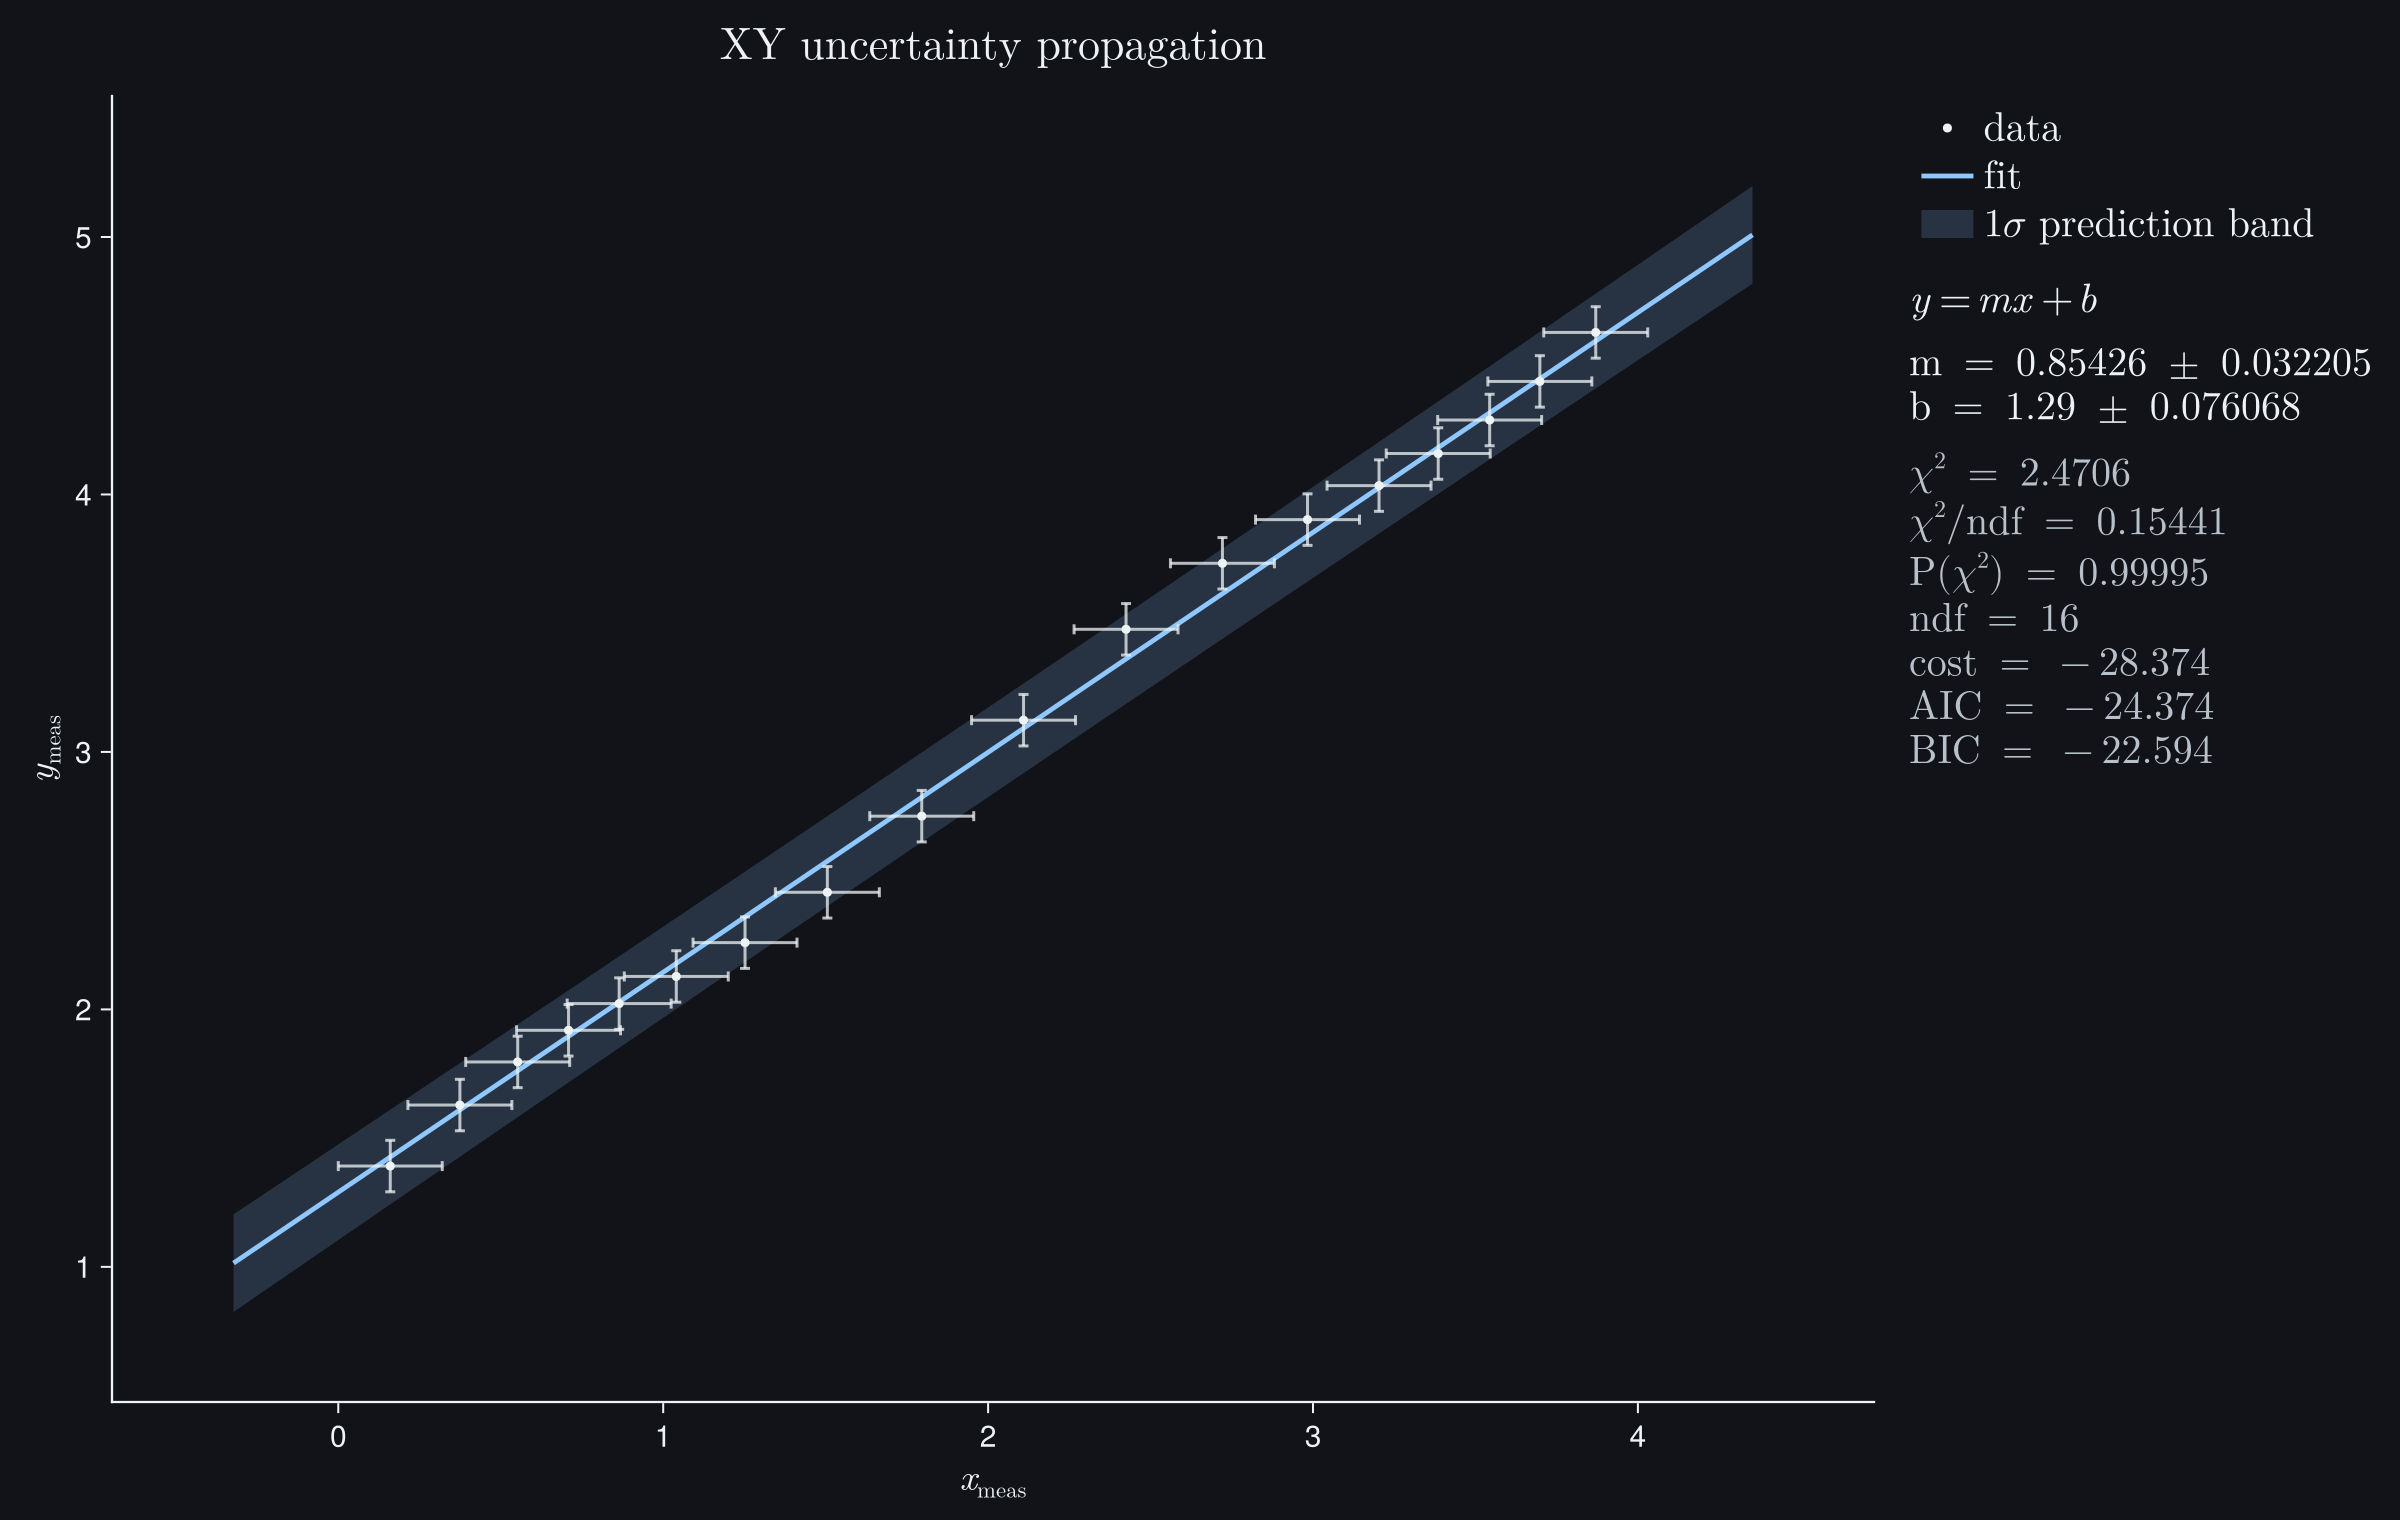
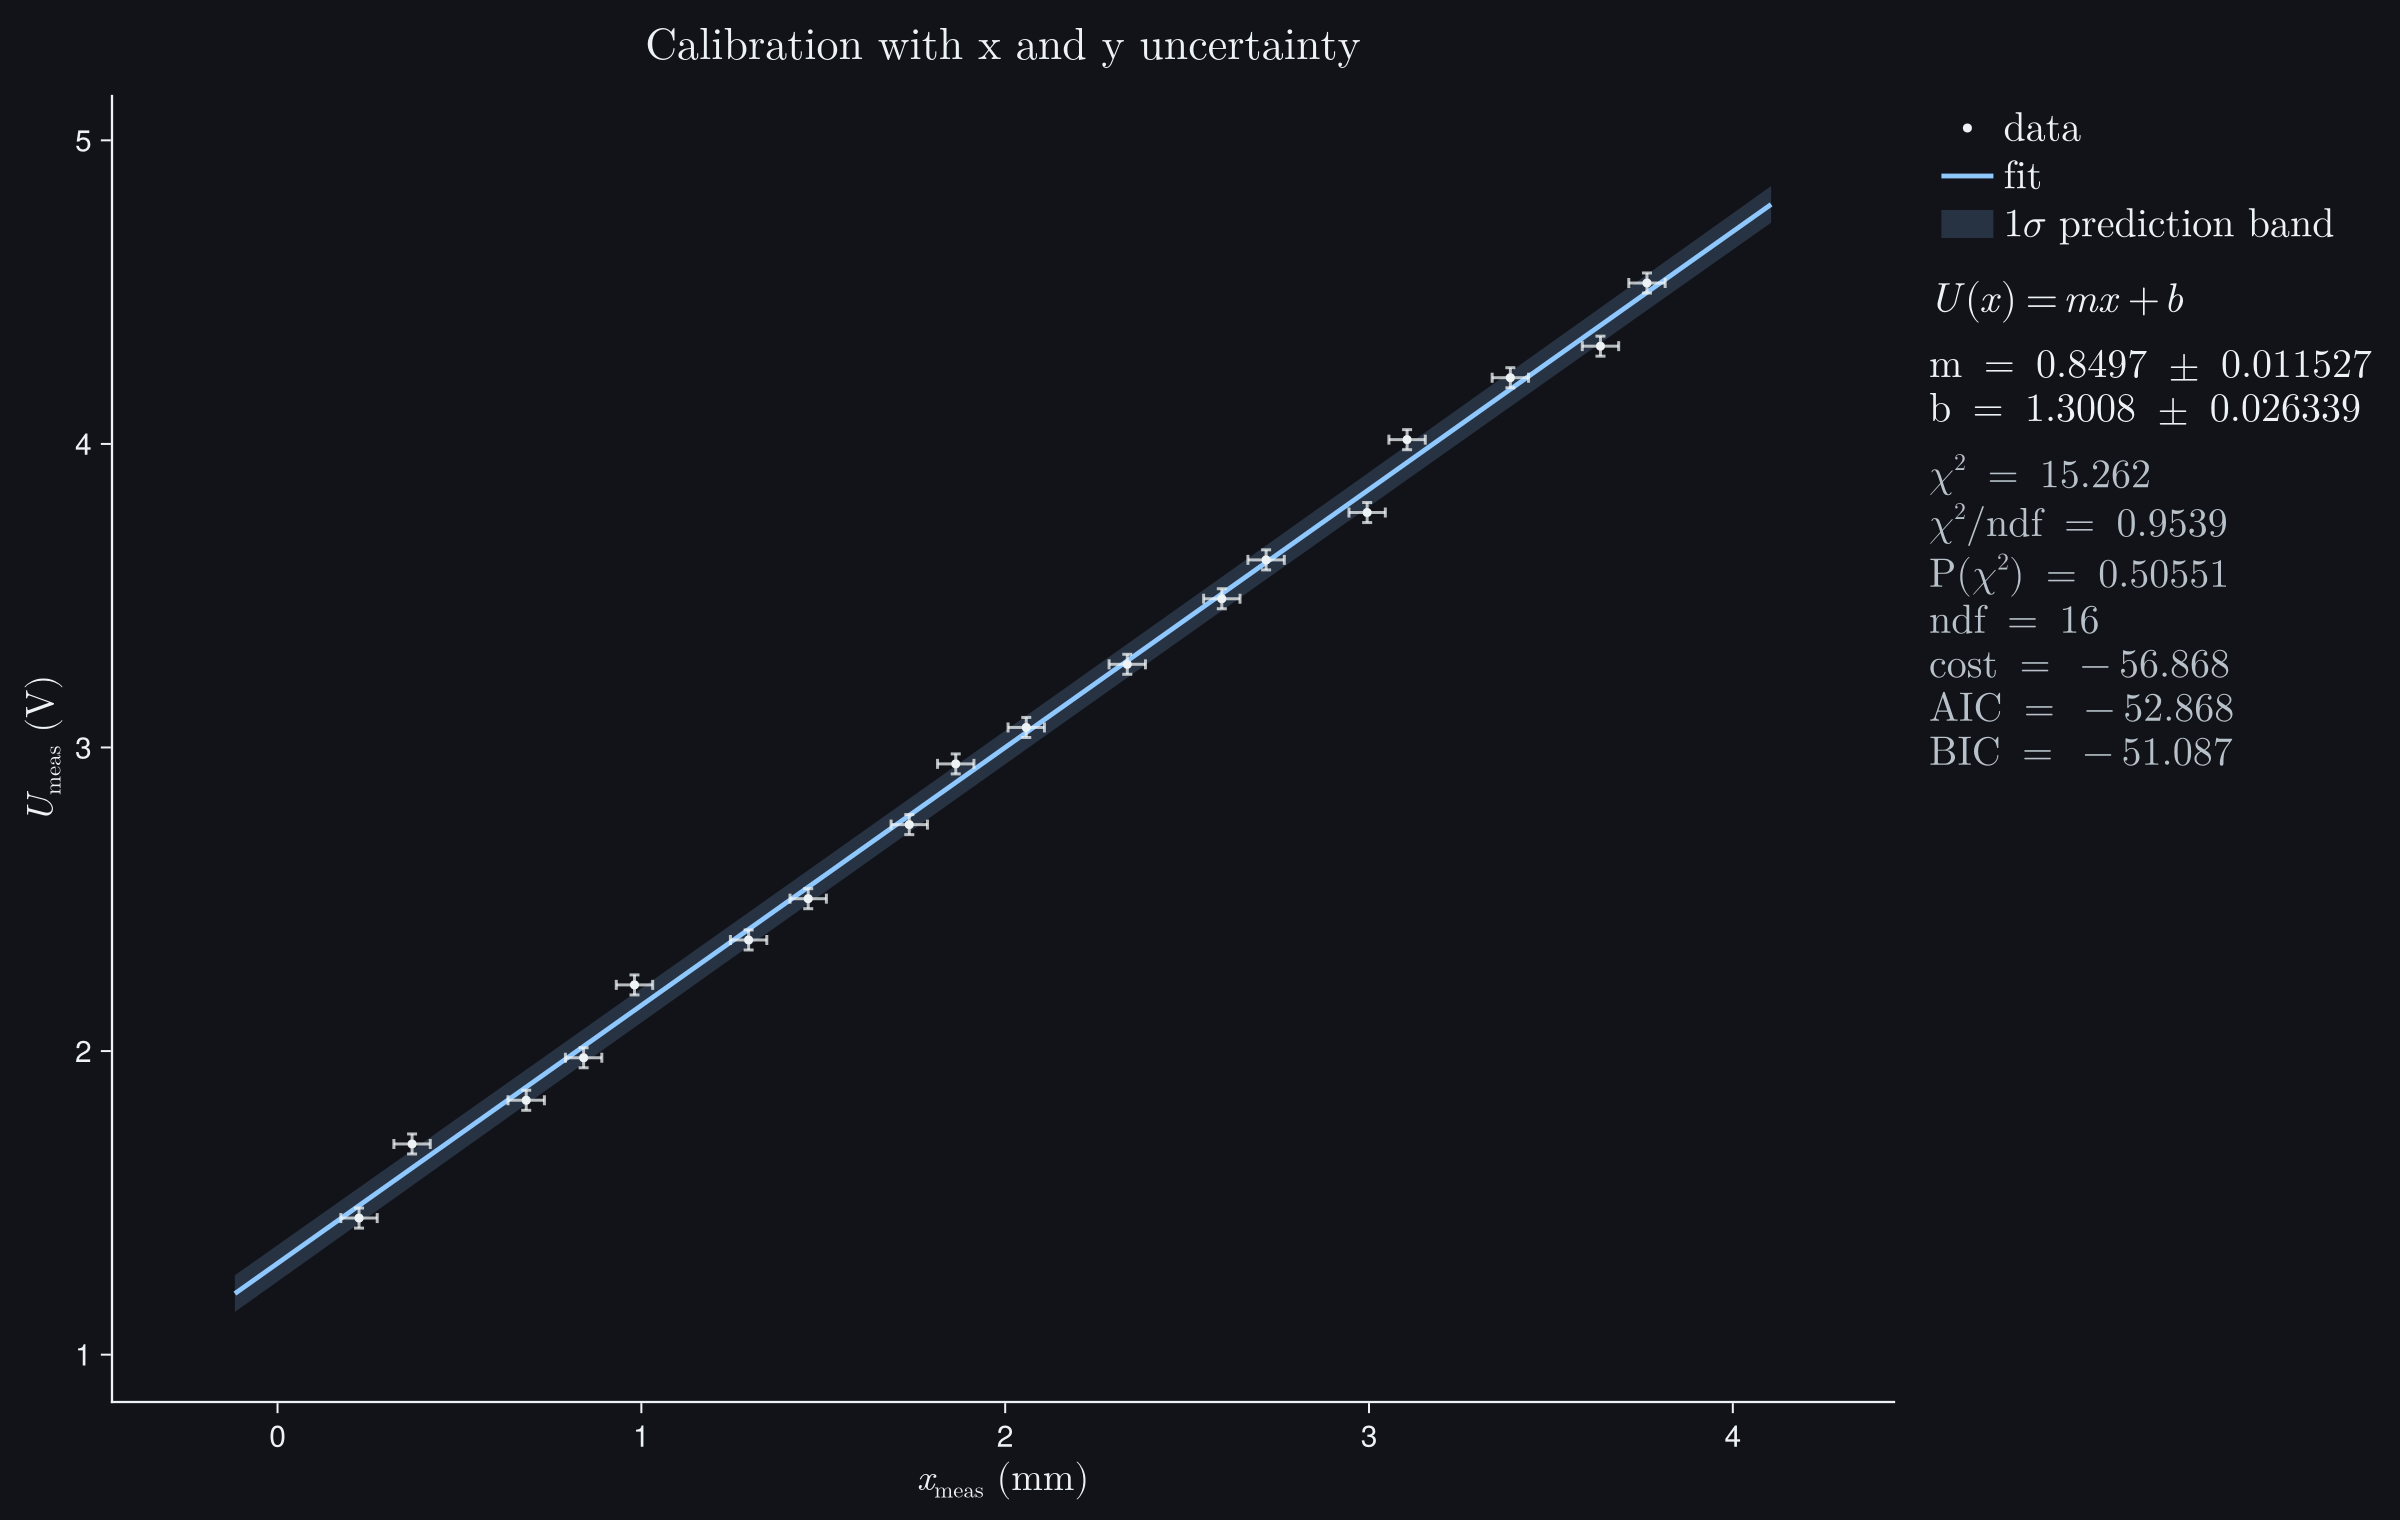
Finish XY uncertainty tutorial

diff --git a/docs/src/gallery/xy_uncertainties.md b/docs/src/gallery/xy_uncertainties.md
@@ -16,11 +16,12 @@ statistical cost and to the fitted parameter errors.
 
 ## Question
 
-A sensor is calibrated by measuring pairs ``(x_\mathrm{meas}, y_\mathrm{meas})``.
-Both instruments have finite resolution. The scientific question is:
+A voltage sensor is calibrated by measuring stage position ``x_\mathrm{meas}``
+in millimetres and sensor response ``U_\mathrm{meas}`` in volts. Both
+instruments have finite resolution. The scientific question is:
 
 ```math
-y = m x + b,
+U = m x + b,
 ```
 
 with realistic uncertainty on both ``m`` and ``b``. If ``x`` uncertainty is
@@ -29,18 +30,17 @@ parameter errors that are too small.
 
 ## Data
 
-The example uses a controlled dataset rather than a perfect synthetic line. The
-measured ``x`` values are shifted by a smooth readout error, and ``y`` contains
-a different structured measurement error. This keeps the example reproducible
-while still producing residuals a scientist should inspect.
+The example uses a controlled, explicit calibration record rather than a
+perfect line. Position and voltage contain different fixed, irregular
+measurement deviations; no random generator is hidden in the page.
 
 The uncertainties are:
 
-- ``\sigma_x = 0.16`` for every measured ``x`` point,
-- ``\sigma_y = 0.10`` for every measured ``y`` point.
+- ``\sigma_x = 0.05\,\mathrm{mm}`` for every measured position,
+- ``\sigma_U = 0.033\,\mathrm{V}`` for every measured voltage.
 
-The visible horizontal and vertical error bars correspond to these standard
-uncertainties. The 1-sigma prediction band in the plot includes the fitted
+The visible horizontal and vertical error bars correspond to these 1σ standard
+uncertainties. The 1σ prediction band in the plot includes the fitted
 parameter uncertainty and the observation noise used by the plotting routine.
 
 ## Model and Cost
@@ -67,11 +67,12 @@ For a straight line this becomes
 \sigma_{\mathrm{eff},i}^2 = \sigma_y^2 + (m\sigma_x)^2.
 ```
 
-The size of the effect is easy to estimate before fitting. If ``m\approx0.85``
-and ``\sigma_x=0.16``, the x-resolution contributes about
-``m\sigma_x\approx0.14`` in vertical units. That is already larger than
-``\sigma_y=0.10``. In this situation drawing horizontal error bars but fitting
-as if x were exact would understate the parameter uncertainty.
+The size of the effect is easy to estimate before fitting. If
+``m\approx0.85\,\mathrm{V\,mm^{-1}}`` and
+``\sigma_x=0.05\,\mathrm{mm}``, the x-resolution contributes about
+``m\sigma_x\approx0.043\,\mathrm{V}`` in the vertical direction. That is larger
+than ``\sigma_U=0.033\,\mathrm{V}``. Drawing horizontal error bars while fitting
+as if x were exact would therefore understate the parameter uncertainty.
 
 JuFitter uses this effective variance when `sigma_x` is supplied. This is a
 local first-order approximation. It is appropriate for smooth models and
@@ -82,60 +83,86 @@ moderate x errors; it is not a full errors-in-variables model.
 This is the complete code for the documentation example:
 
 ```julia
+using CairoMakie
 using JuFitter
 
-# Both coordinates are measured. sigma_x and sigma_y are standard
+# Both coordinates are measured. sigma_x and sigma_U are standard
 # uncertainties, not visual-only error-bar lengths.
-x_measured = [0.1600, 0.3743, 0.5522, 0.7087, 0.8645, 1.0403, 1.2519,
-              1.5053, 1.7958, 2.1091, 2.4246, 2.7213, 2.9831, 3.2032,
-              3.3854, 3.5437, 3.6982, 3.8702]
-y_measured = [1.3916, 1.6286, 1.7960, 1.9189, 2.0226, 2.1280, 2.2593,
-              2.4549, 2.7506, 3.1234, 3.4764, 3.7327, 3.9024, 4.0345,
-              4.1591, 4.2893, 4.4392, 4.6294]
-sigma_x = fill(0.16, length(x_measured))
-sigma_y = fill(0.10, length(x_measured))
+x_measured = [0.2240, 0.3698, 0.6835, 0.8413, 0.9811, 1.2948,
+              1.4586, 1.7364, 1.8641, 2.0579, 2.3356, 2.5954,
+              2.7172, 2.9949, 3.1047, 3.3885, 3.6362, 3.7640]
+U_measured = [1.450, 1.694, 1.838, 1.978, 2.218, 2.366,
+              2.502, 2.746, 2.946, 3.066, 3.274, 3.490,
+              3.618, 3.774, 4.014, 4.218, 4.322, 4.530]
+sigma_x = fill(0.050, length(x_measured))
+sigma_U = fill(0.033, length(x_measured))
 
 line_model(x, p) = @. p[1] * x + p[2]
 
 result = fit_model(
     line_model,
     x_measured,
-    y_measured;
-    p0=[0.5, 0.5],
-    sigma_y=sigma_y,
+    U_measured;
+    p0=[0.8, 1.2],
+    sigma_y=sigma_U,
     sigma_x=sigma_x,
 )
 
-slope, intercept = result.params
-sigma_slope, sigma_intercept = result.param_stderr
+plot_fit(
+    result;
+    title="Calibration with x and y uncertainty",
+    model_label="U(x) = m x + b",
+    xlabel="measured position",
+    xunit="mm",
+    ylabel="measured voltage",
+    yunit="V",
+    parameter_names=["m", "b"],
+    band=:prediction,
+    nsigma=1,
+    band_label="1σ prediction band",
+    show_legend=true,
+    stats_position=:right,
+    stats_mode=:full,
+    filename="xy_uncertainties.pdf",
+)
 
-println("m = ", slope, " +/- ", sigma_slope)
-println("b = ", intercept, " +/- ", sigma_intercept)
+println(report_text(result; parameter_names=["m", "b"]))
 println(diagnostic_dashboard_text(result))
 ```
 
 ```@raw html
 <div class="jufitter-cell-output">
 <div class="jufitter-cell-output-label">Real output (abridged)</div>
-<pre>m = 0.8542596063464186 +/- 0.03220459924722076
-b = 1.289983732168427 +/- 0.07606775503455655
+<pre>Fit report
+backend = optimization
+converged = true
+iterations = 7
+message = Success
+
+Parameters:
+  m = 0.849698 +/- 0.0115274
+  b = 1.30078 +/- 0.0263385
+
+Statistics:
+  cost = gaussian_likelihood
+  cost_min = -56.8681
+  minus2loglik_min = -56.8681
+  chi2 = 15.2624
+  ndf = 16
+  chi2/ndf = 0.953897
+  pvalue = 0.505514
+  AIC = -52.8681
+  BIC = -51.0874
 
 Fit diagnostic dashboard
-status = review - inspect diagnostics
-critical = 0, warning = 4, info = 0
-4 warning(s). Inspect before trusting uncertainties or conclusions.
-
-Next actions:
-  1. Use a covariance model, inspect acquisition order/time dependence, or fit a model with the missing systematic component.
-  2. The uncertainties may be too large, correlations may be ignored, or the data may not be independent.
-  3. Inspect this acquisition interval for drift, missing model structure, a calibration offset, or correlated uncertainty.
-  4. Uncertainties may be overestimated, correlations may be ignored, or the data may have been smoothed/averaged.</pre>
+status = ok - no immediate issue
+critical = 0, warning = 0, info = 0
+No major diagnostic issues detected by the current checks.
+No next action required by the current diagnostic checks.</pre>
 </div>
 ```
 
-The documentation asset generator uses these same arrays and result, then
-renders a light/dark Makie plot for each supported documentation style. The
-visible band is a 1-sigma prediction band; it is not a profile interval and not
+The visible band is a 1σ prediction band; it is not a profile interval and not
 a confidence band for the mean line alone.
 
 ## Diagnostics
@@ -154,11 +181,11 @@ reasonable before moving to more complicated models:
 - For steep nonlinear models, run profiles or a more explicit measurement-error
   model before trusting local symmetric errors.
 
-The diagnostic dashboard is deliberately part of the complete code. For this
-controlled example it reports `status = review`, because the residuals are
-smooth rather than randomly scattered. That is the correct lesson: x-uncertainty
-propagation fixes one part of the uncertainty model, but it does not explain
-every structured effect in the data.
+The dashboard reports `status = ok - no immediate issue`: convergence,
+goodness-of-fit, residual structure, and local covariance pass its current
+first-line checks. This is not proof that the effective-variance approximation
+is the correct physical model; that judgment still depends on how the two
+instruments produce their errors.
 
 ## Interpretation
 
@@ -167,16 +194,17 @@ offset. Because ``\sigma_x`` contributes through the slope, the uncertainty of
 ``m`` and ``b`` depends on the fitted model itself. This is why x errors cannot
 be fixed later by drawing larger horizontal error bars on a finished plot.
 
-For the dataset shown here, the fitted line is approximately
+For the dataset shown here, the fitted sensitivity and offset are
 
 ```math
-y = (0.854 \pm 0.032)x + (1.290 \pm 0.076).
+m = (0.8497 \pm 0.0115)\,\mathrm{V\,mm^{-1}},
+\qquad
+b = (1.3008 \pm 0.0263)\,\mathrm{V}.
 ```
 
-The central values are close to the calibration used to construct the
-controlled example, but the dashboard still asks for review because the
-residuals contain a smooth component. A serious report would mention that
-limitation or improve the measurement model.
+The fitted relation is ``U(x)=m x+b`` with ``x`` in millimetres. Under the
+stated independent Gaussian resolution model, ``\chi^2/\mathrm{ndf}=0.954`` and
+``P(\chi^2)=0.506`` are statistically unremarkable.
 
 The reported covariance is still local. It describes the curvature of the cost
 near the best fit after the effective-variance approximation has been applied.

diff --git a/RELEASE_AUDIT.md b/RELEASE_AUDIT.md
@@ -70,6 +70,11 @@ Local commits on `codex/*` branches are allowed only as reviewable checkpoints.
 - Linear Calibration now identifies its controlled, deliberately imperfect
   dataset, saves directly from the complete page code, reports parameter units,
   and no longer exposes the internal gallery asset generator.
+- XY Uncertainties now uses an explicit dimensioned record whose x-resolution
+  contribution is scientifically relevant without overwhelming the residual
+  model. Its real fit has ``\chi^2/\mathrm{ndf}=0.954`` and an `ok` diagnostic,
+  and the page includes the complete saved plot rather than referring to hidden
+  asset-generation code.
 - Compound gallery figures for Poisson counts, histogram likelihoods, damped
   oscillation, and multi-dataset fits now use the same natural-width
   `plot_info_panel!` layout contract as ordinary fit plots. Ordinary layouts do
